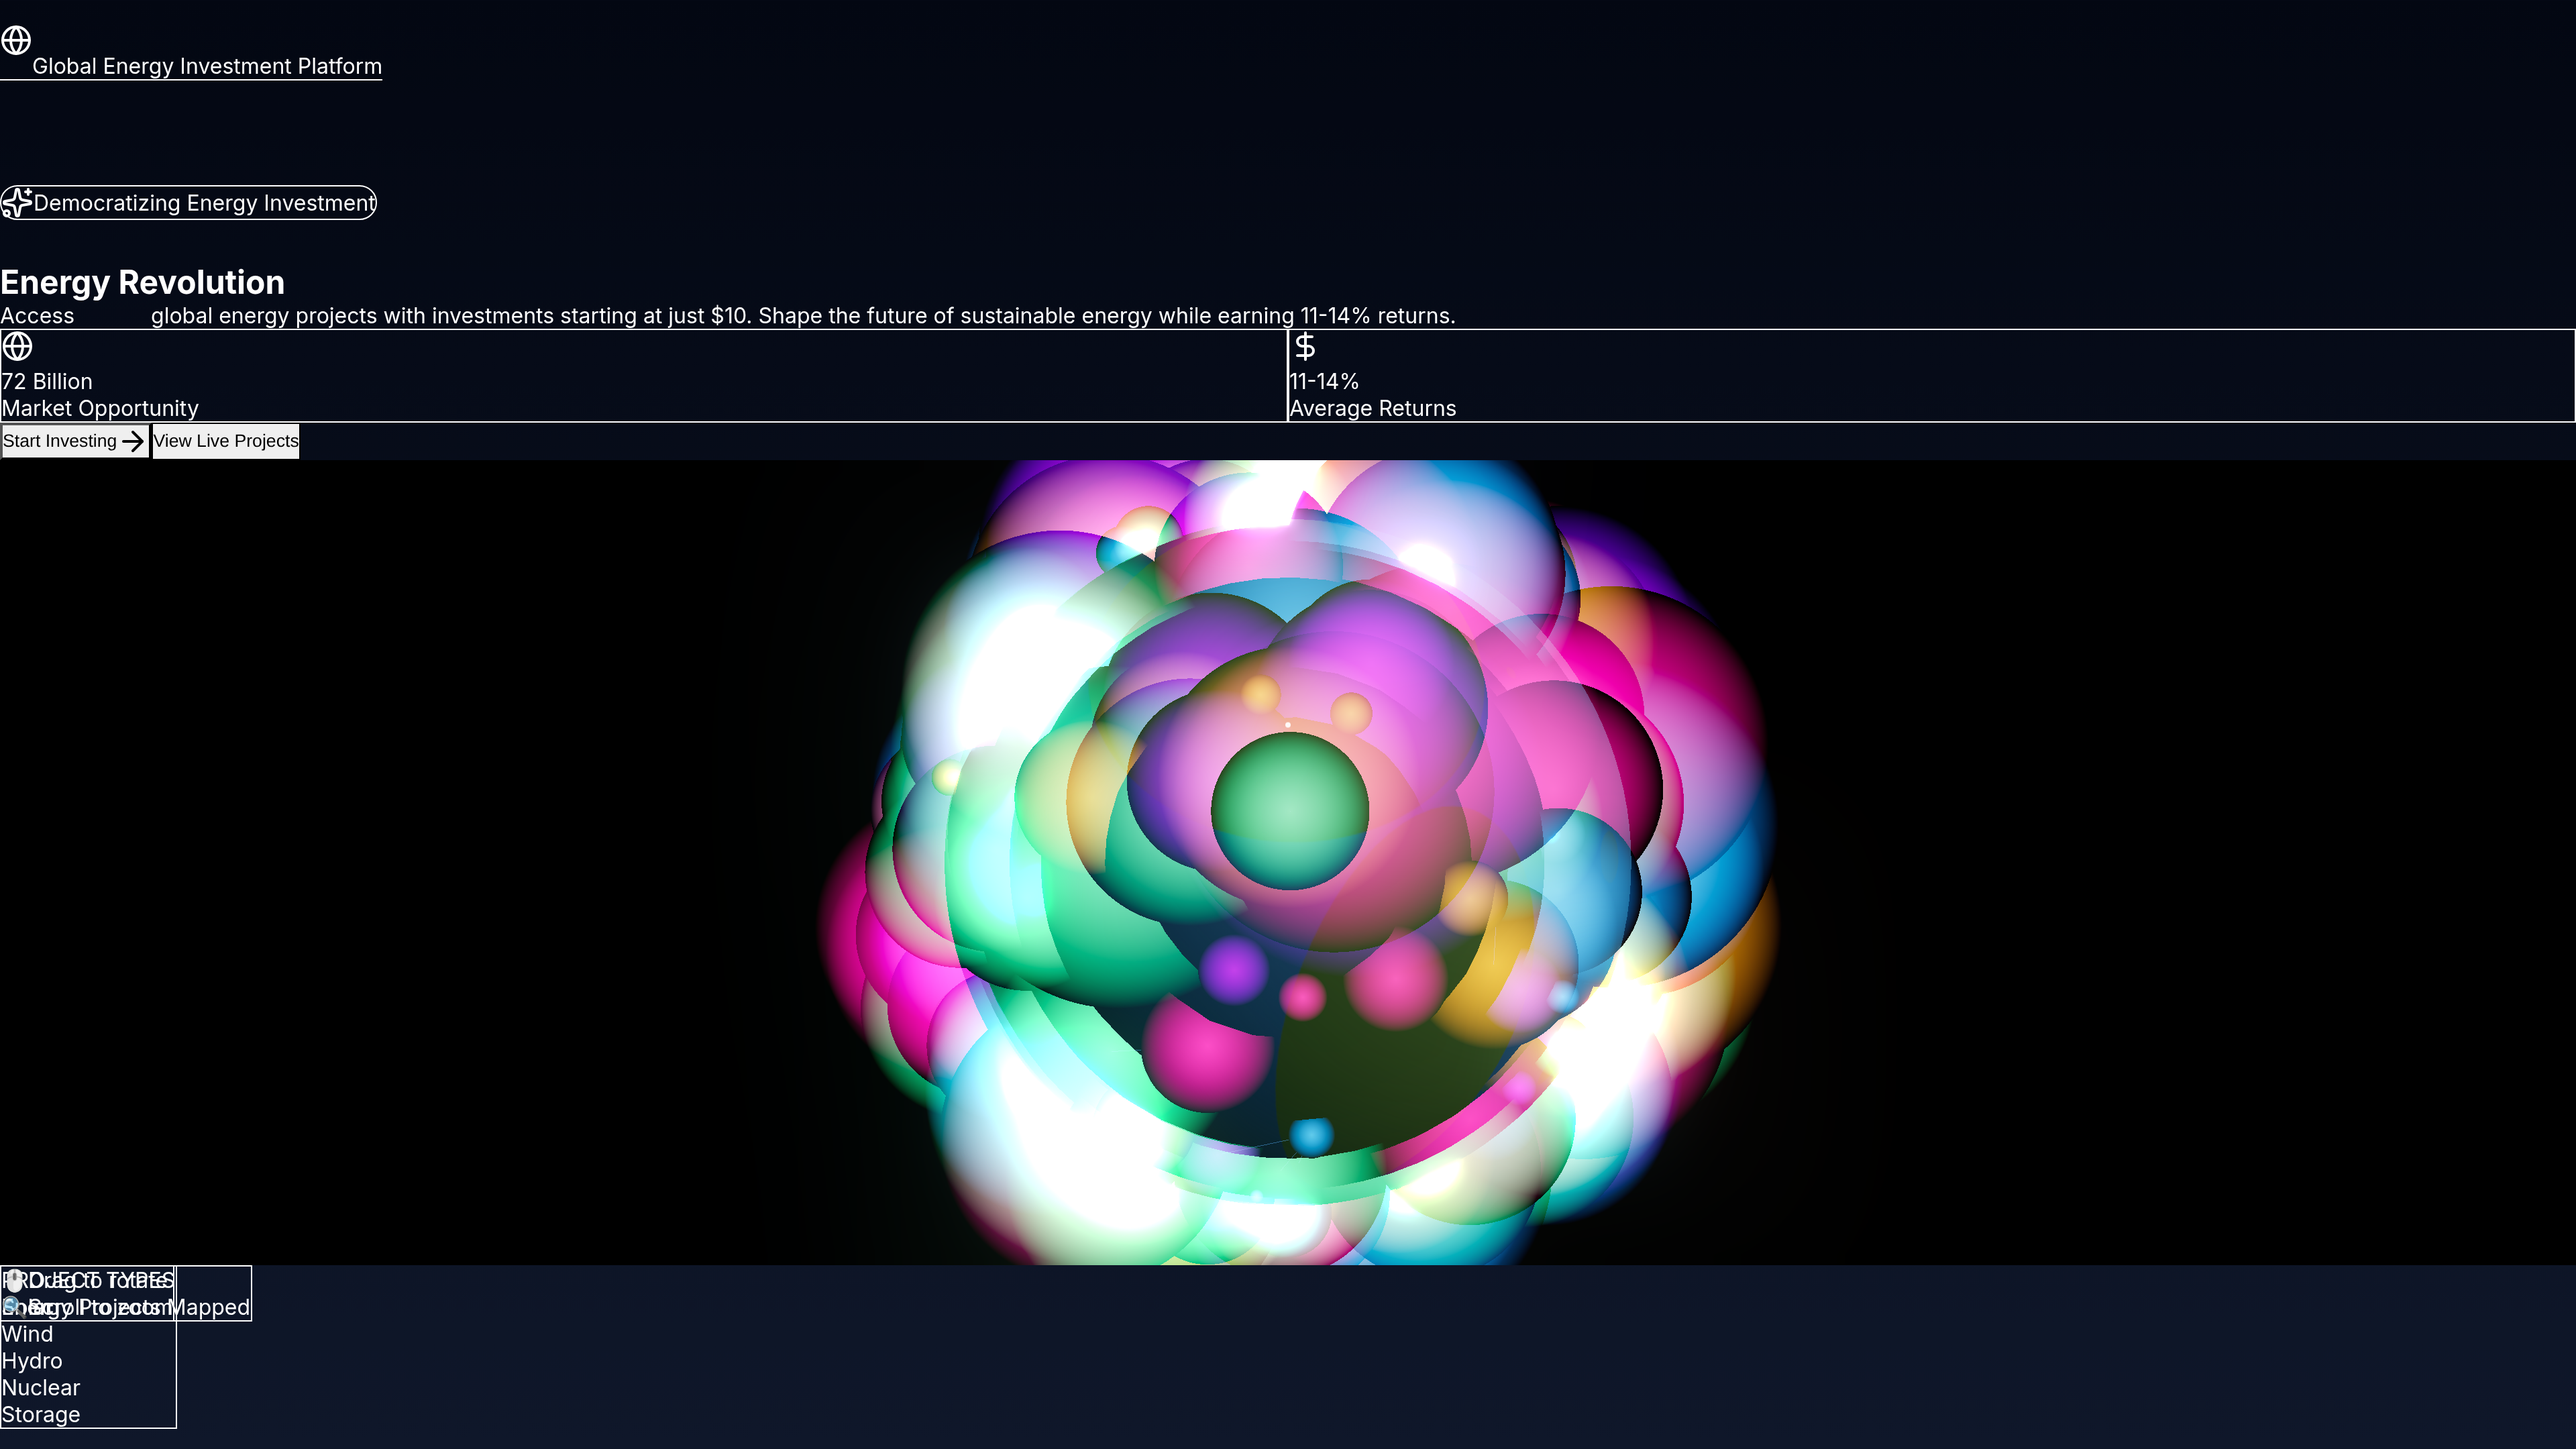
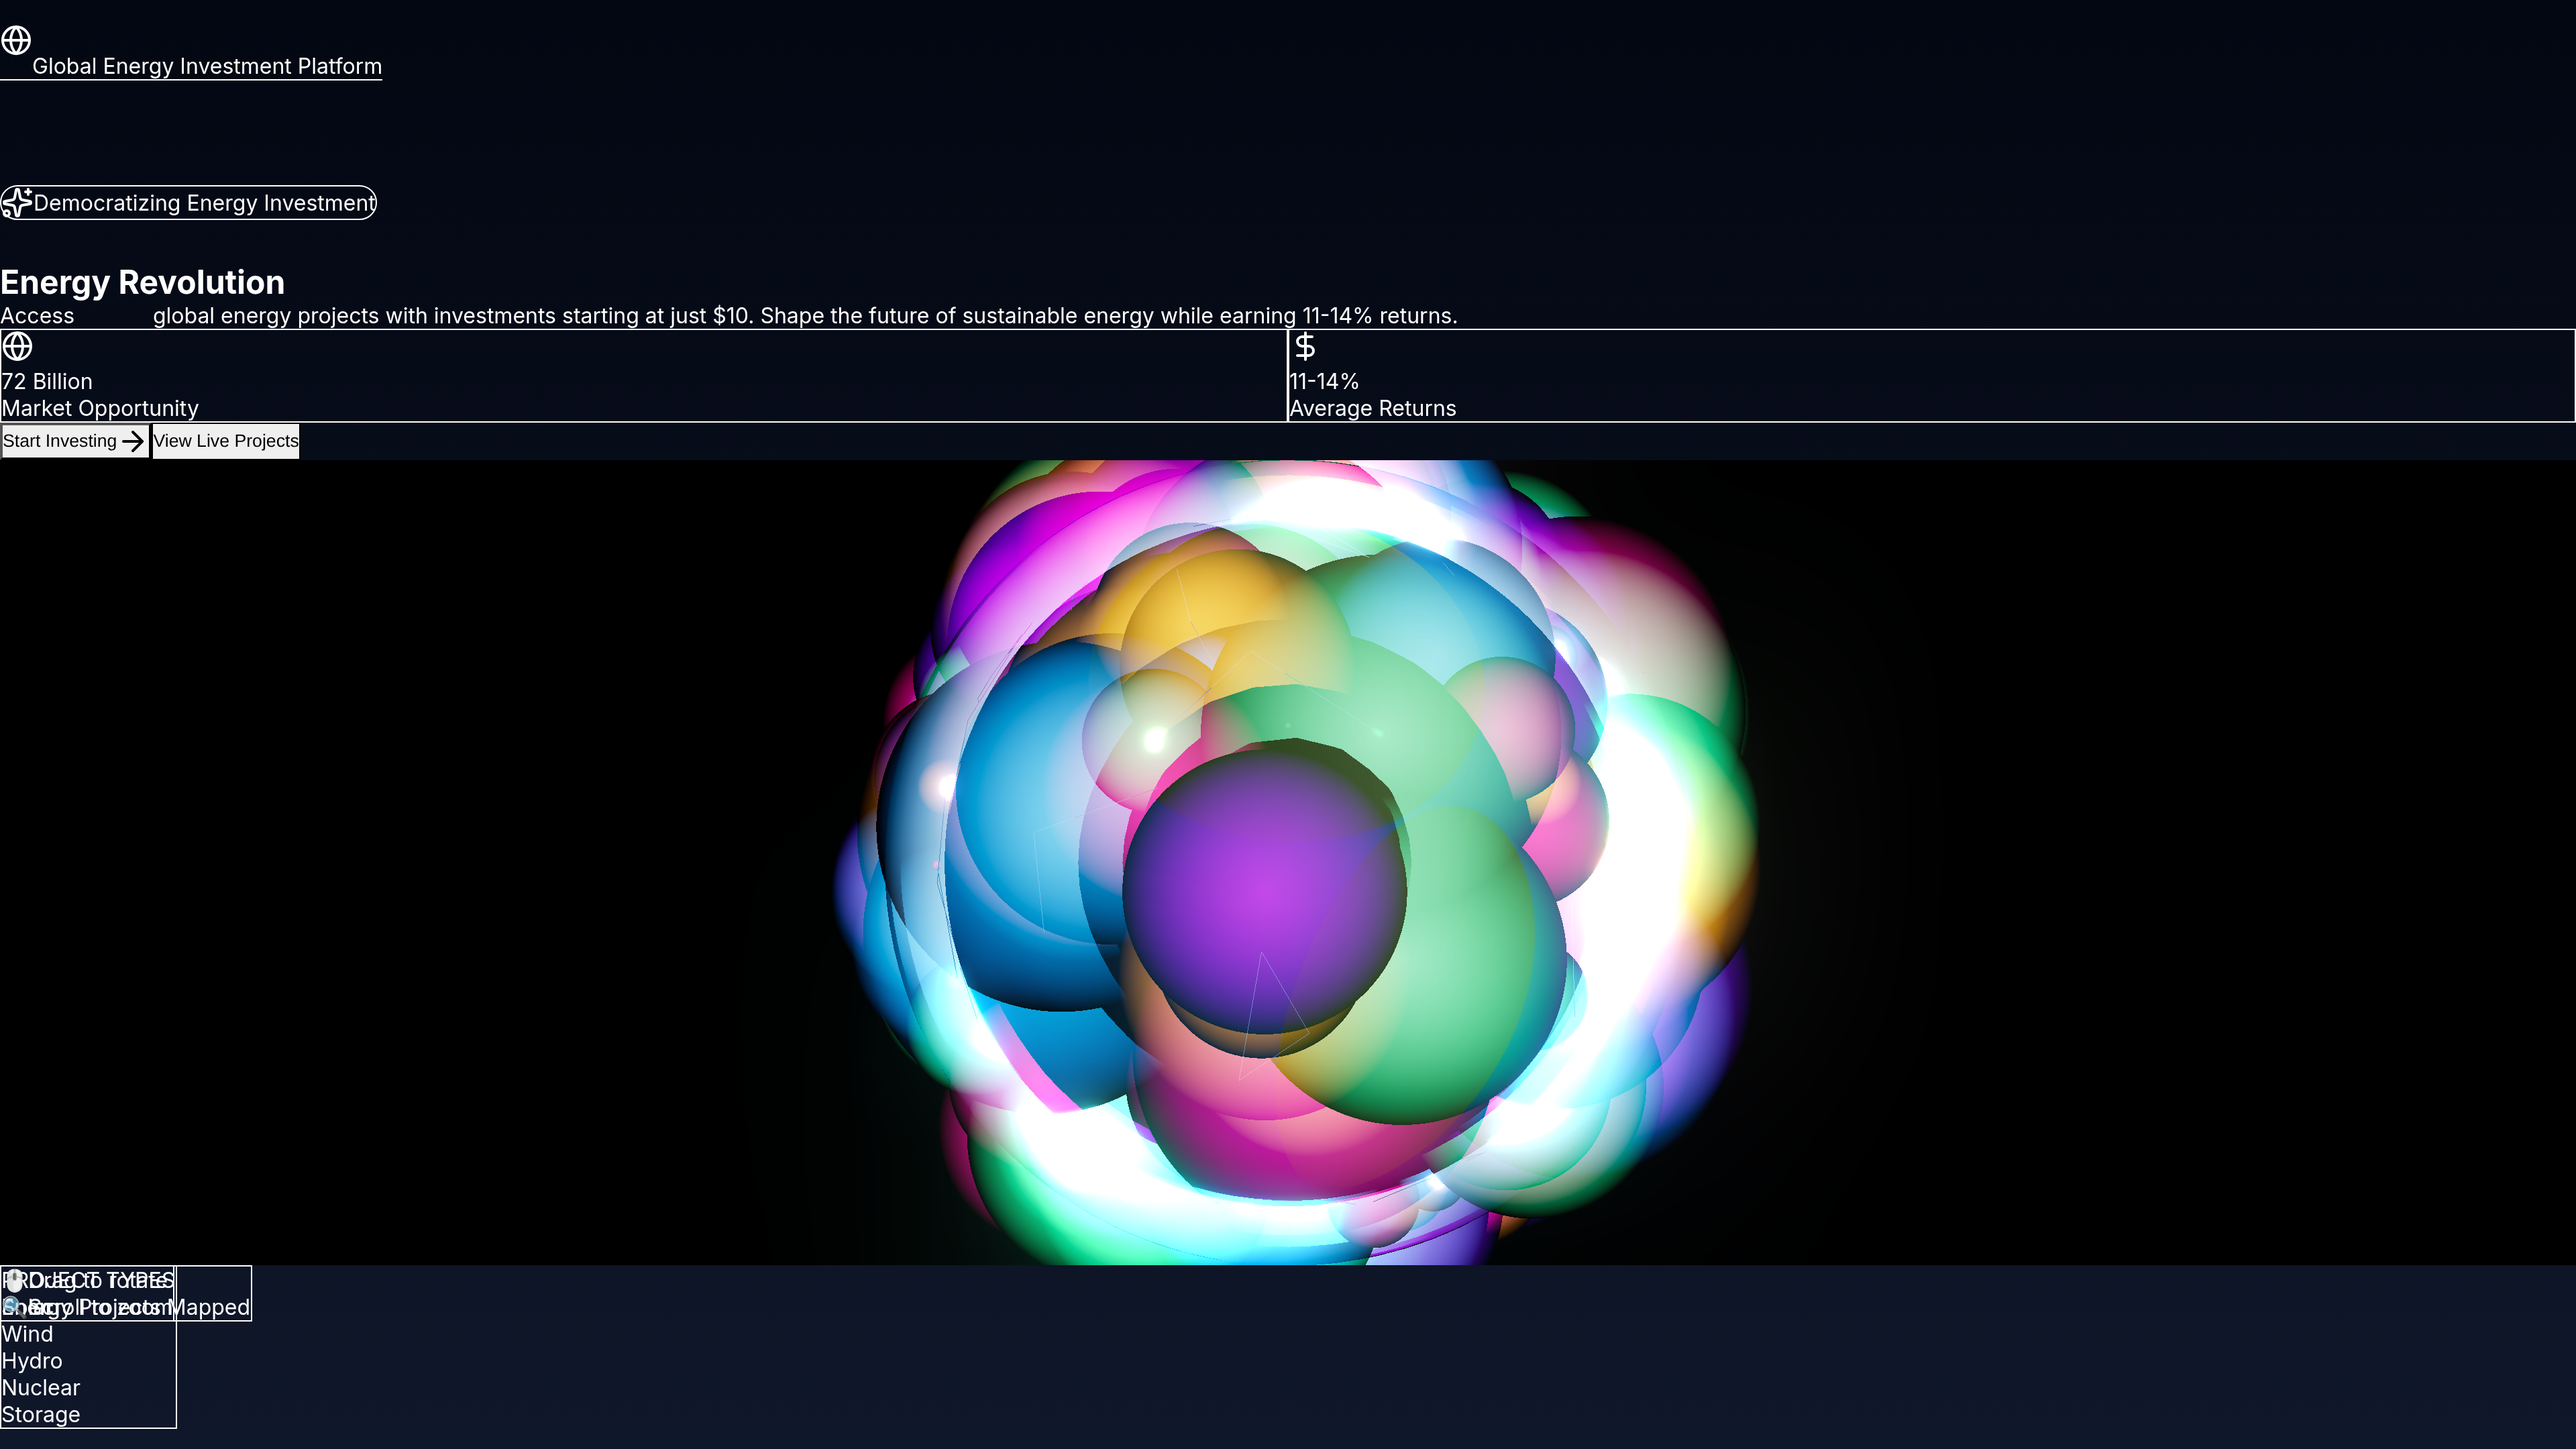
🔬 Debug: Make data points 100x smaller
- Reduce size multiplier from 0.02-0.03 to 0.0003-0.0005 (100x smaller)
- Reduce altitude from 0.01-0.03 to 0.001-0.003 (10x closer to surface)
- Increase opacity to 0.8 so we can still see the tiny points
- If globe appears = points were hiding it
- If no change = globe not rendering at all

Changed region(s): [[0.3125, 0.3102, 0.6875, 0.8995], [0.0625, 0.2171, 0.5, 0.2481], [0.5312, 0.2171, 0.5625, 0.2481]]

diff --git a/components/TerraGlobeBackground.tsx b/components/TerraGlobeBackground.tsx
@@ -290,8 +290,8 @@ export default function TerraGlobeBackground() {
         const score = site.score || 75
         const scoreNormalized = score / 100 // 0-1 range
         
-        // Ultra-subtle points that show Earth texture clearly
-        const sizeMultiplier = isMobile ? 0.03 : 0.02  // Much smaller - was 0.18/0.10
+        // DEBUG: Make points TINY to see if globe is hidden underneath
+        const sizeMultiplier = isMobile ? 0.0005 : 0.0003  // 100x smaller!
         const baseSize = Math.log10(site.capacity + 1) * sizeMultiplier
         // Gentle size variation based on score
         const scoreBoost = 1 + (scoreNormalized * 0.25)
@@ -299,17 +299,17 @@ export default function TerraGlobeBackground() {
 
         // More transparent colors to let Earth show through
         const baseColors = {
-          solar: 'rgba(251, 191, 36, 0.4)',      // More transparent
-          wind: 'rgba(96, 165, 250, 0.4)',       // More transparent
-          hydro: 'rgba(52, 211, 153, 0.4)',      // More transparent
-          geothermal: 'rgba(249, 115, 22, 0.4)'  // More transparent
+          solar: 'rgba(251, 191, 36, 0.8)',      // Increase opacity to see tiny points
+          wind: 'rgba(96, 165, 250, 0.8)',       // Increase opacity
+          hydro: 'rgba(52, 211, 153, 0.8)',      // Increase opacity
+          geothermal: 'rgba(249, 115, 22, 0.8)'  // Increase opacity
         }
 
-        const enhancedColor = baseColors[site.type] || 'rgba(255, 255, 255, 0.4)'
+        const enhancedColor = baseColors[site.type] || 'rgba(255, 255, 255, 0.8)'
 
-        // Lift points higher off surface to reveal Earth
-        const baseAltitude = 0.01  // Was 0.005
-        const scoreAltitude = scoreNormalized * 0.02  // Was 0.015
+        // Keep points very close to surface
+        const baseAltitude = 0.001  // Much closer to surface
+        const scoreAltitude = scoreNormalized * 0.002  // Minimal lift
         const altitude = baseAltitude + scoreAltitude
         
         return {
